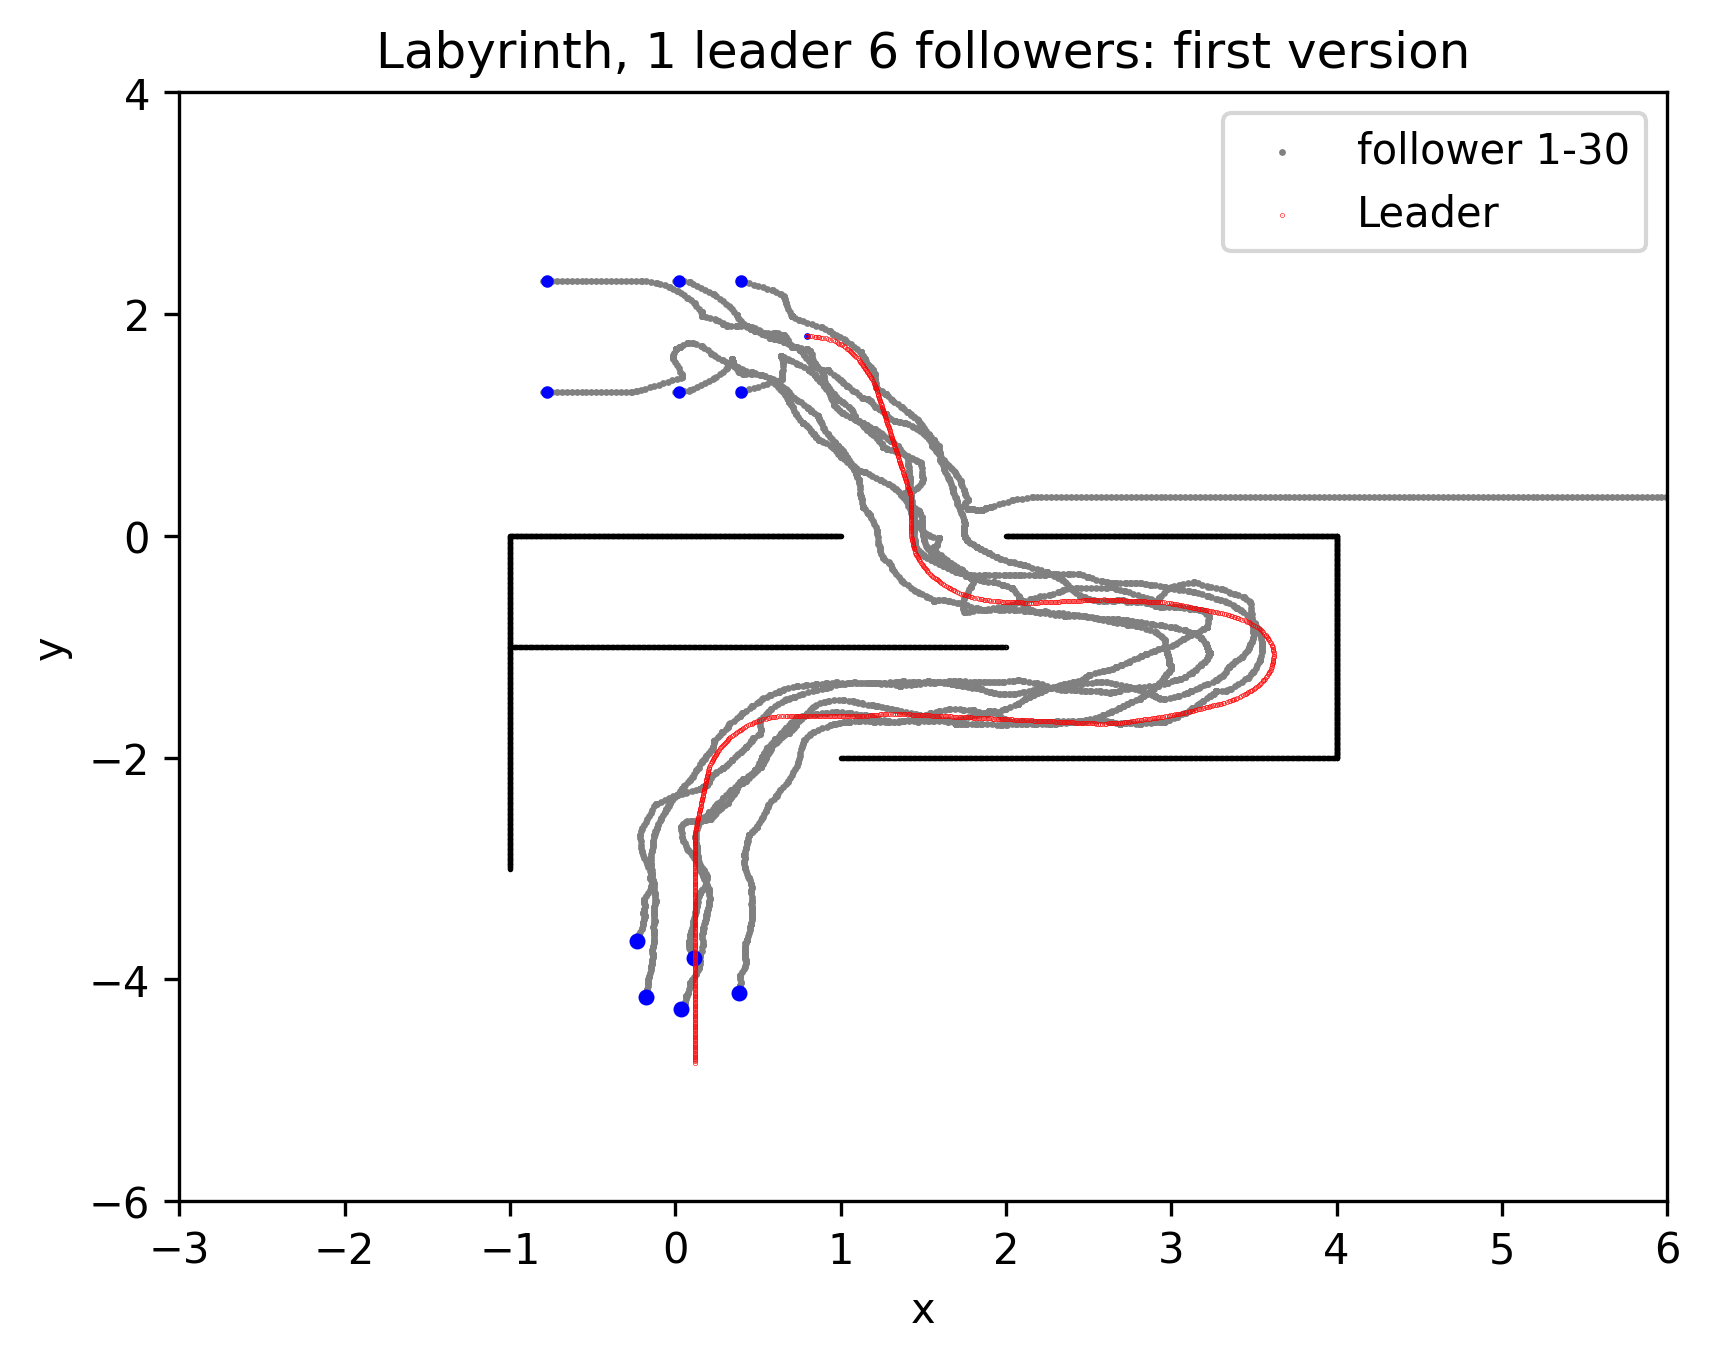
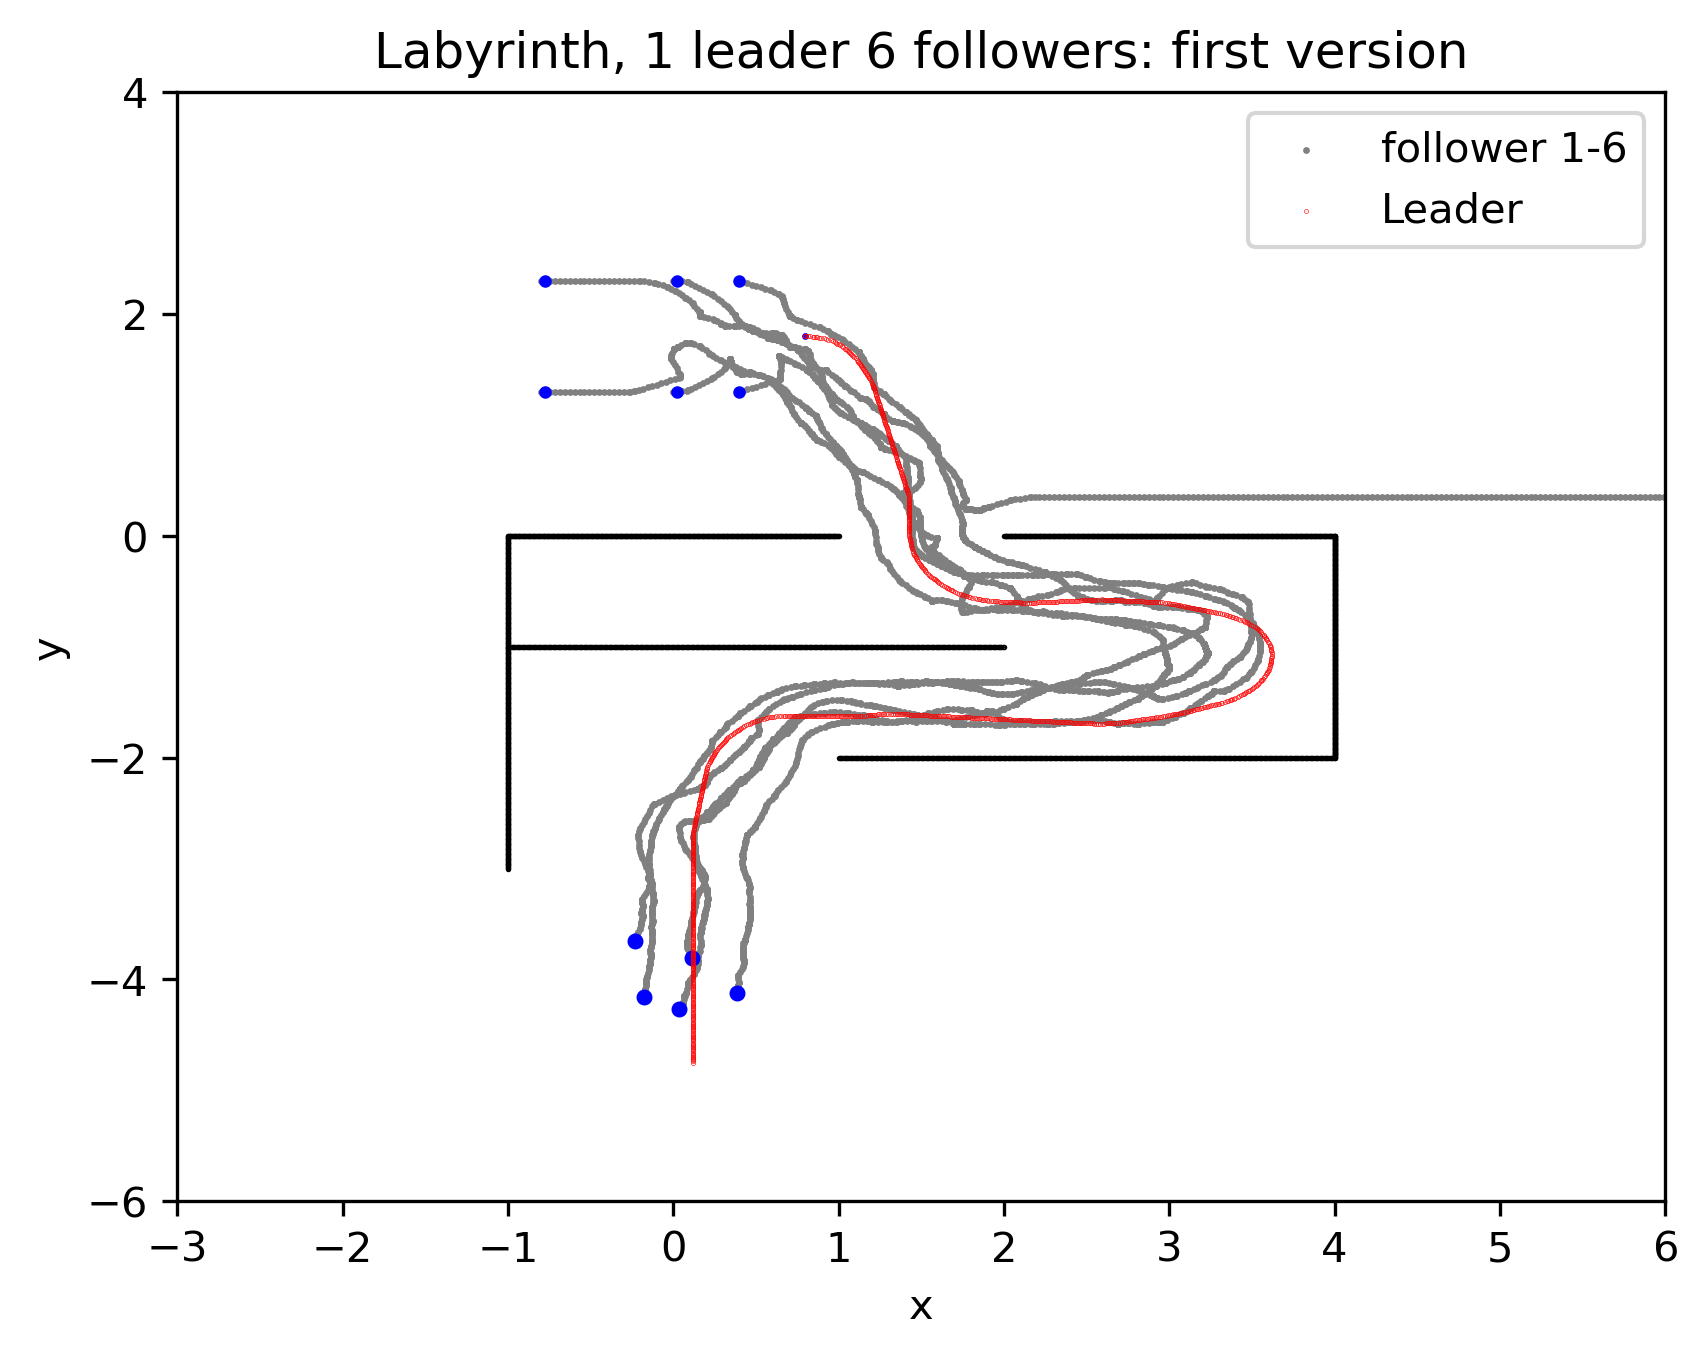
Fixed legend on labyrinth plot

diff --git a/proto/plots/trajectory/labyrinth.py b/proto/plots/trajectory/labyrinth.py
@@ -41,7 +41,7 @@ for (root, name) in FOLDER_ROOTS:
         follower = removeStateAndAction(np.genfromtxt(root + str(i) + '.csv', delimiter=','))
         xf, yf = follower.T
         if plot_for_legend:
-            plt.scatter(xf, yf, s=area, c=followersColor, label='follower 1-30')
+            plt.scatter(xf, yf, s=area, c=followersColor, label='follower 1-6')
             plot_for_legend = False
         else:
             plt.scatter(xf, yf, s=area, c=followersColor)
